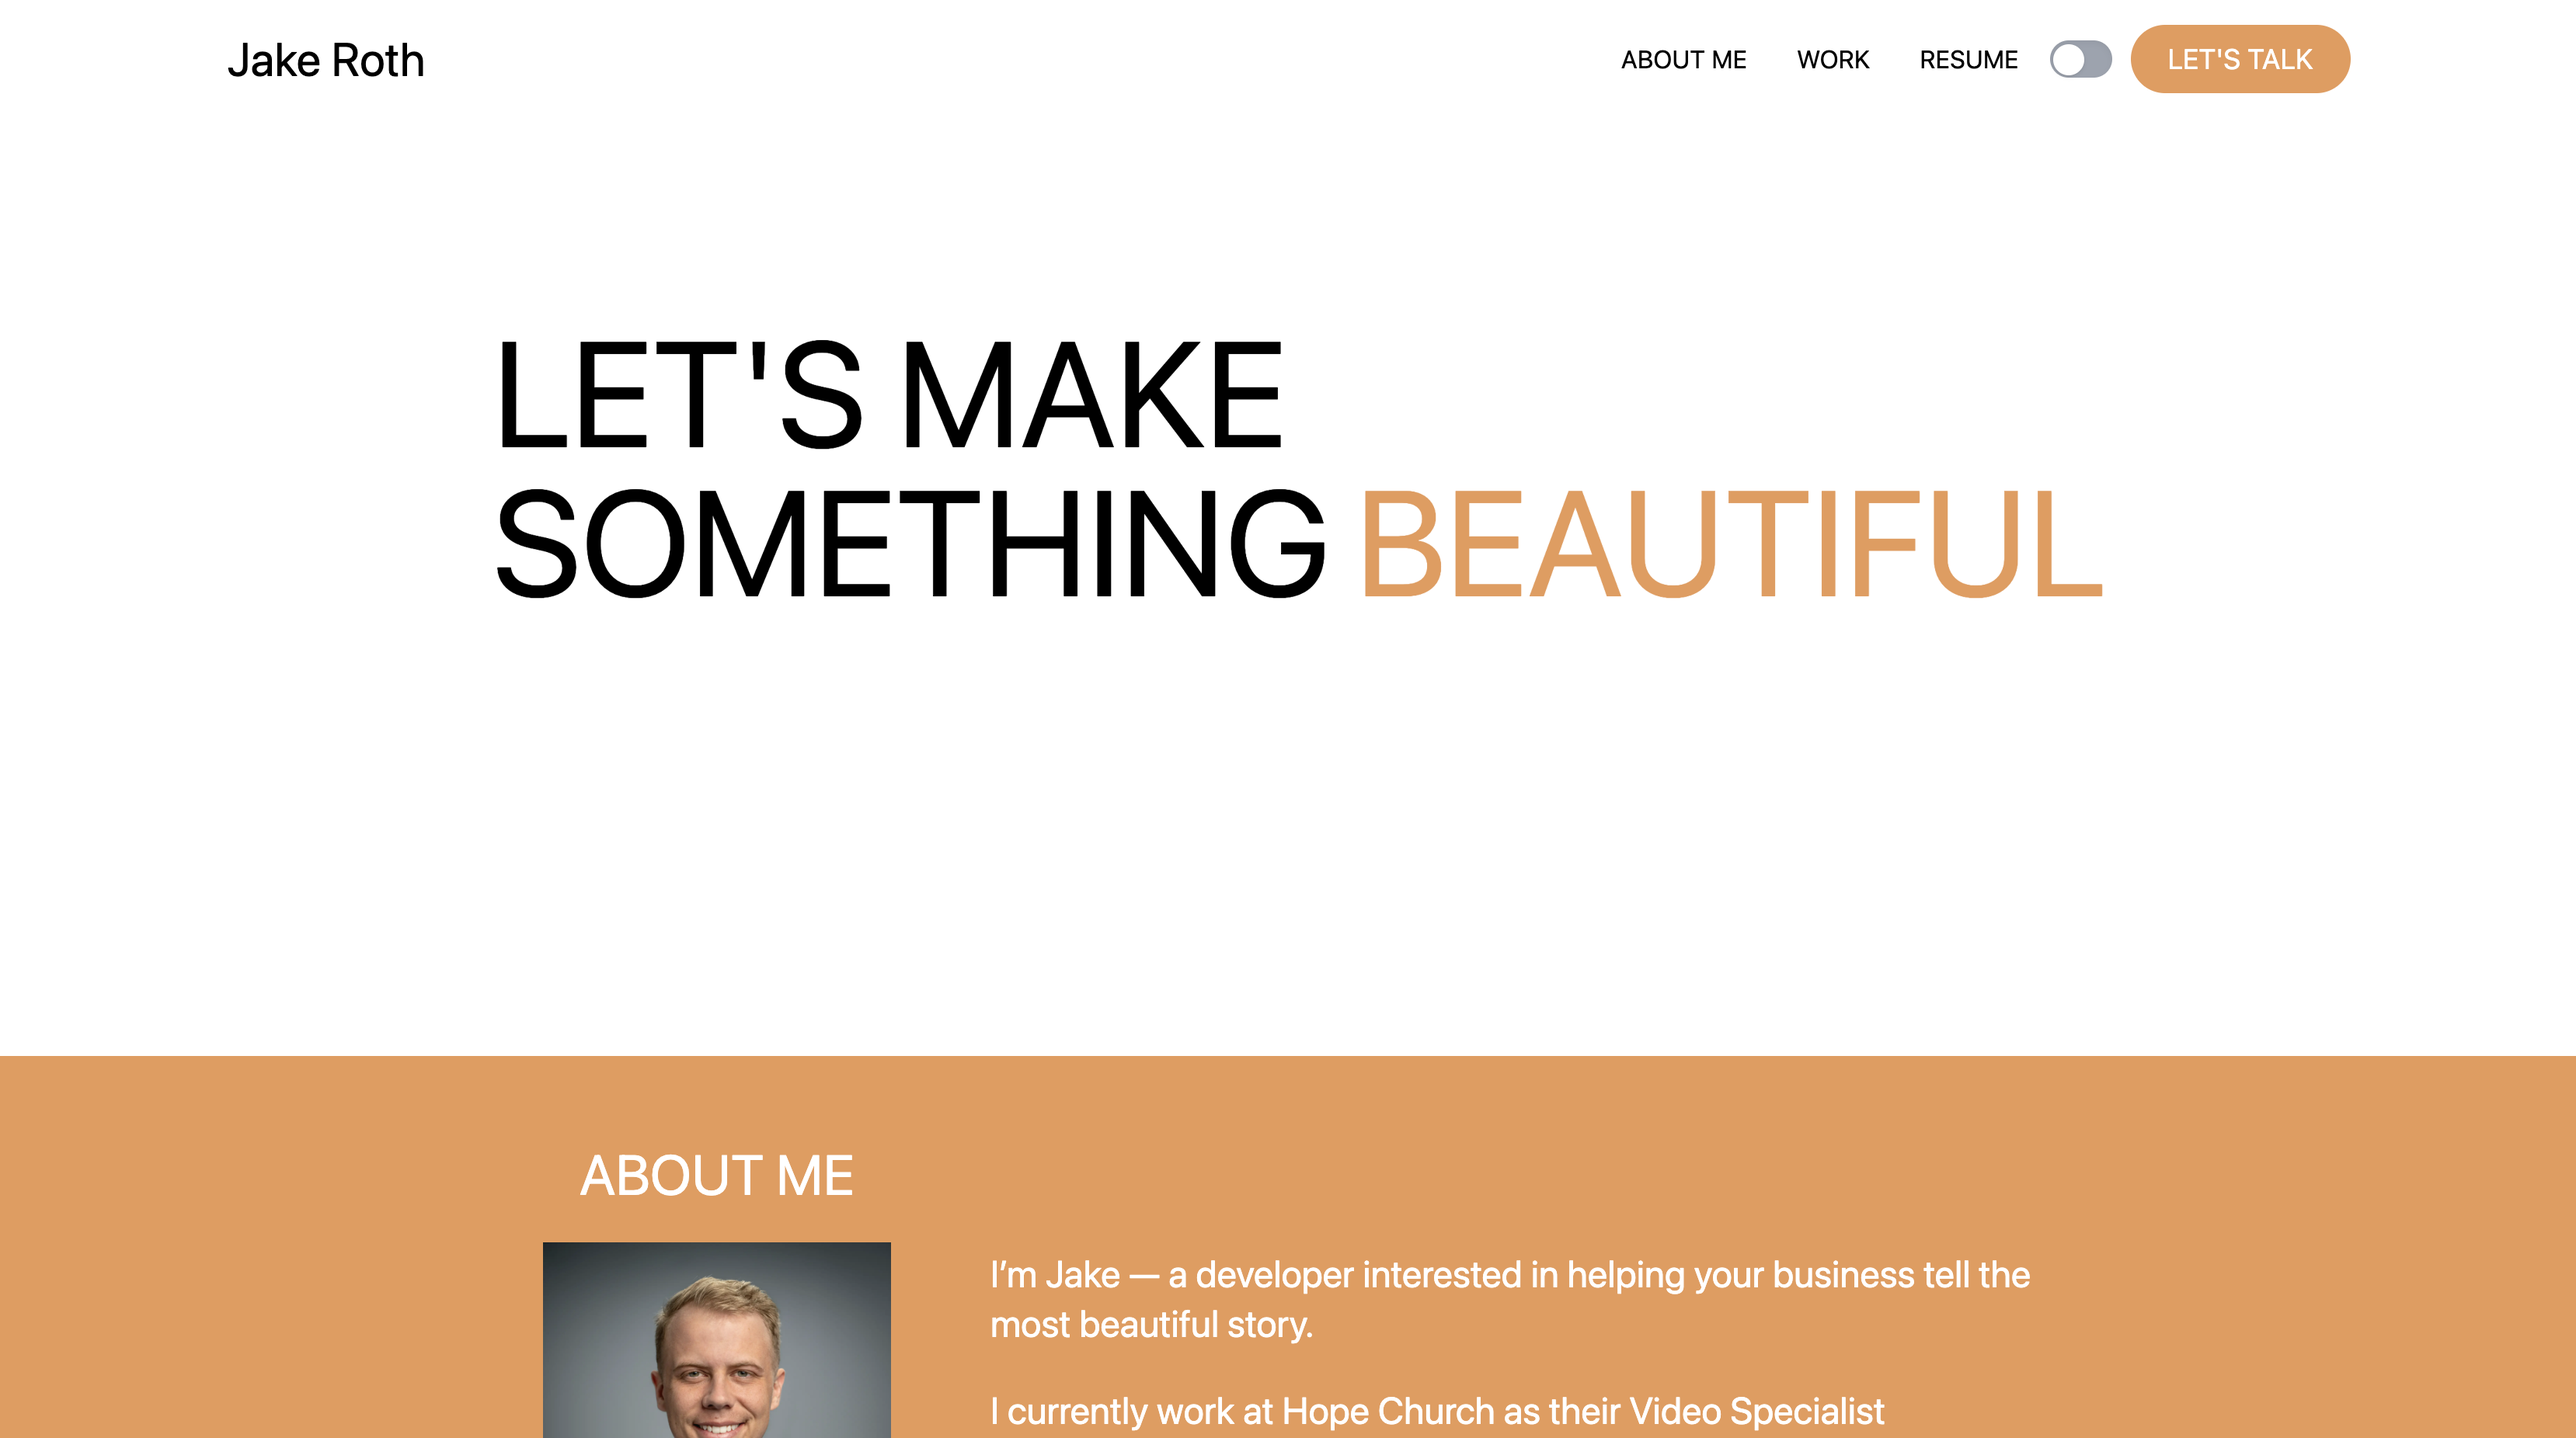
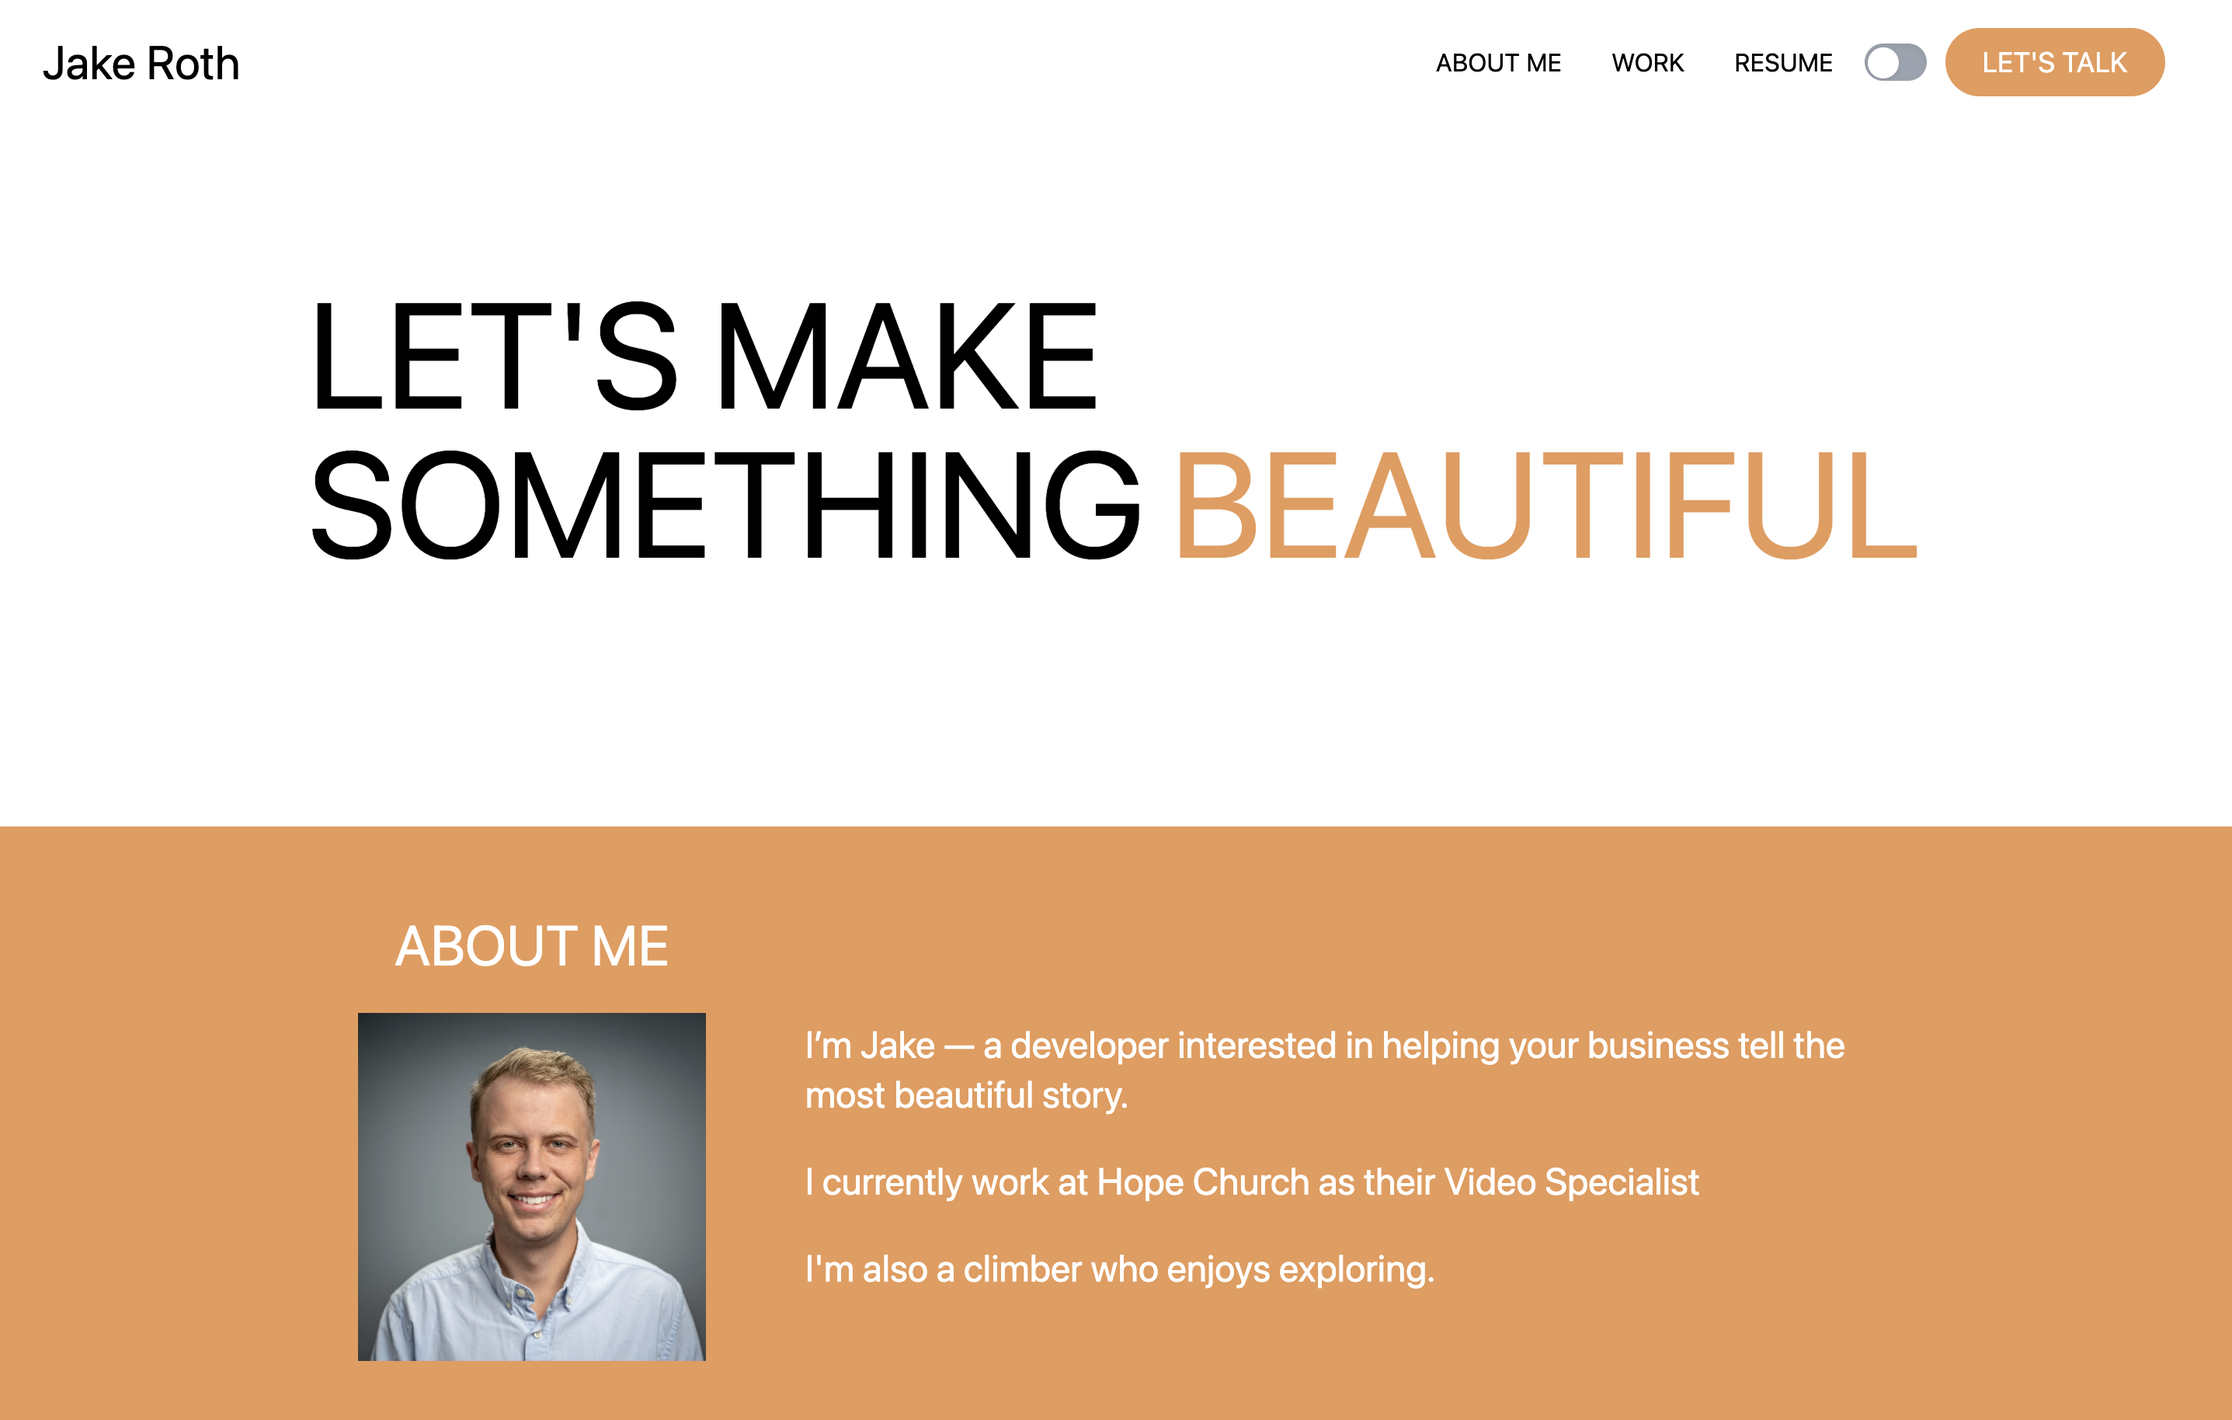
fixed hero desktop spacing and thumbnail

diff --git a/src/components/hero.jsx b/src/components/hero.jsx
@@ -7,8 +7,8 @@ import { Typewriter } from 'react-simple-typewriter'
 function Hero() {
   const { darkMode } = useContext(ThemeContext);
   return (
-    <div className={`${darkMode ? 'graph' : 'bg-white'} xl:flex xl:w-screen xl:px-[8%] xl:justify-center xl:h-[600px]`}>
-    <div className={`flex justify-center items-center h-44 pb-8  md:h-auto md:pb-16 xl:justify-start xl:w-[1040px]`}>
+    <div className={`${darkMode ? 'graph' : 'bg-white'} xl:flex xl:w-screen xl:px-[8%] xl:justify-center xl:h-[450px]`}>
+    <div className={`flex justify-center items-center h-44 pb-8  md:h-auto md:pb-16 xl:pt-24 xl:justify-start xl:w-[1040px]`}>
       <h1 className={`text-5xl flex flex-col h-[145px] md:h-[288px] ${darkMode ? 'text-white' : 'text-black'} md:text-8xl xl:text-8xl`}>
         LET'S MAKE
         <br />
